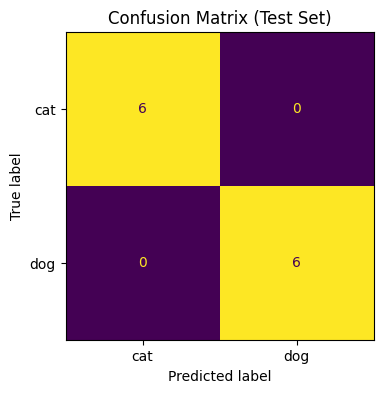
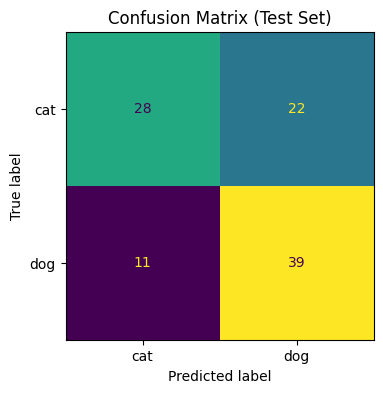
Train on real Kaggle dataset; add kaggle zip extraction script

diff --git a/scripts/download_kaggle_data.py b/scripts/download_kaggle_data.py
@@ -1,0 +1,77 @@
+"""
+Downloads the Kaggle Dog and Cat Classification dataset via kagglehub, then
+reorganizes whatever folder layout it comes in into the structure the rest
+of this pipeline expects:
+
+    data/raw/cats/*.jpg
+    data/raw/dogs/*.jpg
+
+An optional --limit caps images per class so the demo stays fast.
+
+Usage:
+    python scripts/download_kaggle_data.py --limit 500
+"""
+import argparse
+import os
+import shutil
+
+import kagglehub
+
+DEST_ROOT = "data/raw"
+
+
+def find_image_files(root: str):
+    for dirpath, _, filenames in os.walk(root):
+        lower_dir = dirpath.lower()
+        for fname in filenames:
+            if not fname.lower().endswith((".jpg", ".jpeg", ".png")):
+                continue
+            lower_name = fname.lower()
+            if "cat" in lower_dir or lower_name.startswith("cat"):
+                label = "cats"
+            elif "dog" in lower_dir or lower_name.startswith("dog"):
+                label = "dogs"
+            else:
+                continue
+            yield os.path.join(dirpath, fname), label
+
+
+def main(limit: int):
+    print("Downloading dataset from Kaggle (this may take a few minutes)...")
+    dataset_path = kagglehub.dataset_download(
+        "bhavikjikadara/dog-and-cat-classification-dataset"
+    )
+    print(f"Downloaded to: {dataset_path}")
+
+    os.makedirs(os.path.join(DEST_ROOT, "cats"), exist_ok=True)
+    os.makedirs(os.path.join(DEST_ROOT, "dogs"), exist_ok=True)
+
+    counts = {"cats": 0, "dogs": 0}
+    for src_path, label in find_image_files(dataset_path):
+        if limit and counts[label] >= limit:
+            continue
+        dest_name = f"{label[:-1]}_{counts[label]:05d}.jpg"
+        dest_path = os.path.join(DEST_ROOT, label, dest_name)
+        try:
+            shutil.copyfile(src_path, dest_path)
+            counts[label] += 1
+        except Exception as e:
+            print(f"WARN: skipped {src_path}: {e}")
+
+        if limit and counts["cats"] >= limit and counts["dogs"] >= limit:
+            break
+
+    print(f"Copied {counts['cats']} cat images and {counts['dogs']} dog images "
+          f"into {DEST_ROOT}/cats and {DEST_ROOT}/dogs")
+
+    if counts["cats"] == 0 or counts["dogs"] == 0:
+        print("\nWARNING: one or both classes have 0 images. Inspect layout with:")
+        print(f'  Get-ChildItem -Recurse -Directory "{dataset_path}" | Select-Object FullName')
+
+
+if __name__ == "__main__":
+    parser = argparse.ArgumentParser()
+    parser.add_argument("--limit", type=int, default=500,
+                         help="Max images per class to copy (0 = copy all).")
+    args = parser.parse_args()
+    main(args.limit)

diff --git a/scripts/extract_from_zip.py b/scripts/extract_from_zip.py
@@ -1,0 +1,67 @@
+"""
+Extracts cat/dog images directly from a downloaded Kaggle dataset zip file
+straight into data/raw/cats and data/raw/dogs.
+
+Pass --zip_path pointing at your downloaded archive.
+"""
+import argparse
+import os
+import zipfile
+
+DEST_ROOT = "data/raw"
+
+
+def main(zip_path: str, limit: int):
+    os.makedirs(os.path.join(DEST_ROOT, "cats"), exist_ok=True)
+    os.makedirs(os.path.join(DEST_ROOT, "dogs"), exist_ok=True)
+
+    counts = {"cats": 0, "dogs": 0}
+
+    with zipfile.ZipFile(zip_path, "r") as zf:
+        names = zf.namelist()
+        print(f"Zip contains {len(names)} entries. Scanning for images...")
+
+        for name in names:
+            if not name.lower().endswith((".jpg", ".jpeg", ".png")):
+                continue
+            lower_name = name.lower()
+
+            if "cat" in lower_name:
+                label = "cats"
+            elif "dog" in lower_name:
+                label = "dogs"
+            else:
+                continue
+
+            if limit and counts[label] >= limit:
+                continue
+
+            dest_name = f"{label[:-1]}_{counts[label]:05d}.jpg"
+            dest_path = os.path.join(DEST_ROOT, label, dest_name)
+
+            try:
+                with zf.open(name) as src, open(dest_path, "wb") as dst:
+                    data = src.read()
+                    if len(data) == 0:
+                        continue
+                    dst.write(data)
+                counts[label] += 1
+            except Exception as e:
+                print(f"WARN: skipped {name}: {e}")
+
+            if limit and counts["cats"] >= limit and counts["dogs"] >= limit:
+                break
+
+    print(f"Extracted {counts['cats']} cat images and {counts['dogs']} dog images "
+          f"into {DEST_ROOT}/cats and {DEST_ROOT}/dogs")
+
+    if counts["cats"] == 0 or counts["dogs"] == 0:
+        print("WARNING: 0 images for one class. Inspect the zip contents.")
+
+
+if __name__ == "__main__":
+    parser = argparse.ArgumentParser()
+    parser.add_argument("--zip_path", type=str, required=True)
+    parser.add_argument("--limit", type=int, default=500)
+    args = parser.parse_args()
+    main(args.zip_path, args.limit)
